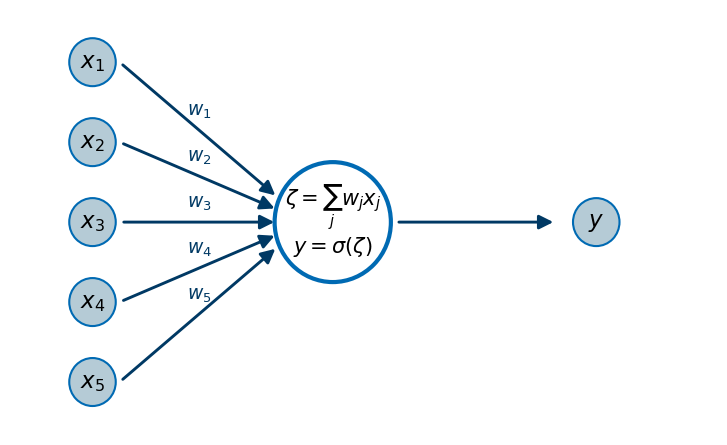
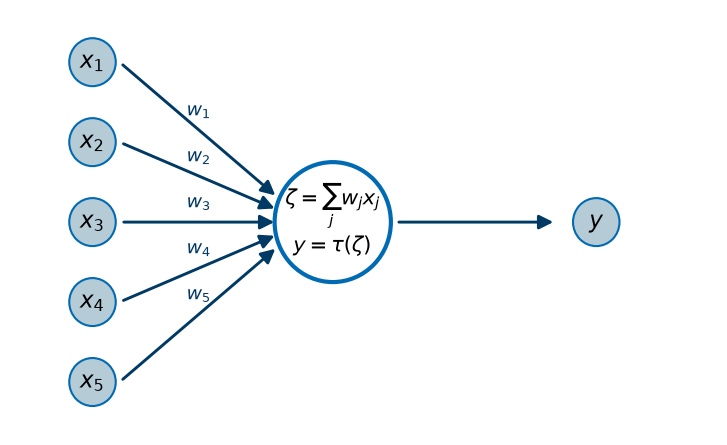
VL 2 gegengelesen: tau statt sigma, XOR aufgelöst, die fünf Antworten
Durchsicht des zweiten Decks nach der Prüfliste des Folien-Playbooks,
Protokoll in devnotes/folien-review-vl02-2026-10-02.md. Der fachliche
Befund: Kapitel 02 legt tau als beliebige Aktivierungsfunktion fest und
sigma als die logistische, zwei Folien und die Neuron-Abbildung sagten
sigma – die Abbildung kommt aus make_figures.py und steht im Kapitel, in
VL 1 und in VL 2. Jetzt überall tau.

Zwei Folien neu: „XOR, aufgelöst“ (das Versprechen von Folie 11, mit dem
Bild, das es für VL 7 schon gab) und „Die fünf Antworten für das Perzeptron“
als Take-Home vor dem Übungsblatt. Dazu das Bias-Update auf der Drei-Fälle-
Folie, eine Zwei-Panel-Abbildung für die Regel bei der Arbeit (der 1x4-
Streifen war unlesbar), die drei Hörsaalfragen von 2025 in den Notizen,
Hugging Face als Ausblick, Iris auf der Blattfolie, Ablaufplan nachgezogen.

Gegenprobe: 22 Folien, 0 zu volle Rahmen, Notizenfassung passt, VL 1 mit der
neuen Abbildung unverändert 25 Folien, Sprachprüfung null, HTML-Bau ohne
Warnungen.

diff --git a/slides/Einführung in Deep Learning 2026 VL 02 Neuron und Perzeptron.tex b/slides/Einführung in Deep Learning 2026 VL 02 Neuron und Perzeptron.tex
@@ -28,9 +28,10 @@
       45--52 & Folie 12      & Die fünf Fragen an jedes Modell\\
       52--62 & Folien 13--14 & Perzeptronregel\\
       62--75 & Folie 15      & \textbf{Tafel: warum sie für ein Sample funktioniert}\\
-      75--82 & Folien 16--17 & Verallgemeinertes Perzeptron\\
-      82--88 & Folien 18--19 & Mehrere Schichten, warum die Regel nicht reicht\\
-      88--90 & Folie 20      & Übungsblatt\\
+      75--82 & Folien 16--17 & Regel bei der Arbeit, verallgemeinertes Perzeptron\\
+      82--87 & Folien 18--20 & MLP, XOR aufgelöst, warum die Regel nicht reicht\\
+      87--89 & Folie 21      & Die fünf Antworten (Take-Home)\\
+      89--90 & Folie 22      & Übungsblatt\\
     \end{tabular}\\[4pt]
     Die Tafelphase ist der Kern der Sitzung -- 2025 war das Ein-Sample-Argument das,
     was der Dozent am Ende „das Wichtigste“ genannt hat. Wenn die Zeit knapp wird:
@@ -48,7 +49,8 @@
 
   \note{Zwei Sätze Rückblick, mehr nicht. Ansagen: das erste Blatt war heute 12:00 fällig,
     das nächste kommt raus und implementiert die Perzeptronregel.
-    Wer letzte Woche nicht da war: Kapitel 1 im Skript, zehn Minuten Lesezeit.}
+    Wer letzte Woche nicht da war: das Kapitel „Was ist Deep Learning?“ im Skript,
+    zehn Minuten Lesezeit.}
 \end{frame}
 
 % ------------------------------------------------------------------ Neuron
@@ -60,7 +62,7 @@
       \begin{center}
         \Large
         $\zeta = \sum_{j=1}^n w_j x_j = w \cdot x$\\[16pt]
-        $y = \sigma(\zeta)$
+        $y = \tau(\zeta)$
       \end{center}
     \end{column}
     \begin{column}{0.48\textwidth}
@@ -70,10 +72,11 @@
 
   \note{Von der Biologie geborgt: Dendriten liefern Signale, das Neuron summiert sie
     gewichtet und feuert, wenn eine Schwelle überschritten wird.
-    Bei McCulloch und Pitts ist $\sigma$ eine Schwellenwertfunktion mit Ausgabe 0 oder 1;
-    später wird daraus Sigmoid oder ReLU.
+    Bei McCulloch und Pitts ist $\tau$ eine Schwellenwertfunktion mit Ausgabe 0 oder 1;
+    später wird daraus die Sigmoidfunktion $\sigma$ oder ReLU. Konvention wie im Skript:
+    $\tau$ ist irgendeine Aktivierungsfunktion, $\sigma$ immer die logistische.
     \textbf{Type-Check als Stilmittel} (hat 2025 gut getragen): Was für ein Objekt ist $w$,
-    was $x$, was $\zeta$? Aus den Typen folgt, dass $\sigma$ von $\mathbb{R}$ nach
+    was $x$, was $\zeta$? Aus den Typen folgt, dass $\tau$ von $\mathbb{R}$ nach
     $\mathbb{R}$ geht.}
 \end{frame}
 
@@ -244,7 +247,10 @@
 
   \note{$\rho > 0$ ist die Lernrate, ein Hyperparameter.
     Type-Check: Was muss $\rho$ sein, damit die Formel Sinn ergibt? Ein Skalar.
-    Und $(y - f(x))$? Eine Zahl aus $\{-1, 0, 1\}$.}
+    Und $(y - f(x))$? Eine Zahl aus $\{-1, 0, 1\}$.
+    Frage 2025: Kann man die rückblickend perfekte Lernrate ausrechnen? Für ein einzelnes
+    Sample ja (bei $y = 1$ reicht $\rho > -\,w \cdot x / \|x\|^2$), für alle zusammen
+    nicht -- in der Praxis wird $\rho$ im Lauf des Trainings variiert.}
 \end{frame}
 
 \begin{frame}
@@ -257,7 +263,14 @@
   \item[$y = 0,\ f(x) = 1$] $w_{\text{neu}} = w - \rho x$, Aktivierung sinkt
   \end{description}
 
-  \note{Der mittlere Fall zum Mitrechnen: $w_{\text{neu}} \cdot x = w \cdot x + \rho\,(x \cdot x)$,
+  \bigskip
+  \begin{center}
+    Mit $x_0 = 1$ lernt die Regel den Bias mit: $b_{\text{neu}} = b + \rho\,(y - f(x))$.
+  \end{center}
+
+  \note{Der Bias ist das nullte Gewicht, also bekommt er dasselbe Update, mit $x_0 = 1$ --
+    Type-Check: $b$ ist eine Zahl, $\rho\,(y - f(x)) \cdot 1$ auch.
+    Der mittlere Fall zum Mitrechnen: $w_{\text{neu}} \cdot x = w \cdot x + \rho\,(x \cdot x)$,
     und $x \cdot x > 0$ für $x \neq 0$. Die Aktivierung wächst also -- in Richtung der
     richtigen Entscheidung.
     Frage in den Raum, die 2025 kam: Muss eine Änderung a priori verbessern? Nein --
@@ -288,11 +301,16 @@
   \frametitle{Die Regel bei der Arbeit}
 
   \begin{center}
-    \includegraphics[width=0.8\textwidth]{vl02-perceptron-updates.png}
+    \includegraphics[width=0.7\textwidth]{vl02-perceptron-updates-folie.png}
   \end{center}
 
-  \note{Trenngerade nach 0, 1, 2 und 3 Epochen über 60 Datenpunkte, Lernrate $\rho = 0{,}05$.
-    Genau das baut das Übungsblatt nach.
+  \note{Links der Start, rechts nach drei Epochen (60 Datenpunkte, Lernrate
+    $\rho = 0{,}05$, Fehlerrate von 60 auf 5 Prozent, und zwar schon nach der ersten Epoche);
+    das Skript zeigt alle vier Stufen. Genau das baut das Übungsblatt nach.
+    Initialisierung (Frage 2025): Der Nullvektor hat keine Richtung, dann entscheidet das
+    erste falsch klassifizierte Sample, wohin $w$ zeigt; $(1,\dots,1)$ ist willkürlich, aber
+    eine Richtung. Wichtig ist die Größenordnung relativ zu den Daten, Normieren schadet
+    nicht. Der Konvergenzsatz rechnet übrigens mit Start $0$.
     Hier den Konvergenzsatz nur beim Namen nennen (Novikoff 1962): höchstens
     $R^2/\gamma^2$ Fehler, wenn es eine Margin $\gamma$ gibt. Der Beweis steht als
     Vertiefung im Skript.}
@@ -333,7 +351,7 @@
     \end{column}
     \begin{column}{0.5\textwidth}
       \Large
-      $h = \sigma(W x + b)$\\[14pt]
+      $h = \tau(W x + b)$\\[14pt]
       \normalsize
       Zeile $i$ von $W$ = Gewichte von Neuron $i$
     \end{column}
@@ -343,9 +361,30 @@
     Also: $m$ Aktivierungen auf einmal -- mit der Geometrie von vorhin: $m$ skalierte
     Abstände zu $m$ Hyperebenen. Jedes Neuron zeichnet eine Gerade in die Eingabeebene.
     In PyTorch: \texttt{nn.Linear(n, m)} hat \texttt{weight} mit Shape \texttt{(m, n)}.
-    Jetzt XOR auflösen: zwei Geraden in der ersten Schicht ($x_1 \lor x_2$ und
-    $\lnot(x_1 \land x_2)$), ein UND darüber -- im Raum der Seiten-Informationen ist XOR
-    linear trennbar.}
+    MLP gegen neuronales Netz (Frage 2025): MLP ist der Spezialfall -- jede Schicht voll
+    mit der nächsten verbunden, nur vorwärts; neuronales Netz ist der Oberbegriff, auch für
+    CNN, RNN und Transformer. Die XOR-Auflösung kommt auf der nächsten Folie.}
+\end{frame}
+
+\begin{frame}
+  \frametitle{XOR, aufgelöst: zwei Geraden und ein UND}
+
+  \begin{center}
+    \includegraphics[width=0.9\textwidth]{vl07-xor-region.png}
+  \end{center}
+
+  \begin{center}
+    $g(x) = [\,x_1 + x_2 - \tfrac12 > 0\,]$ \qquad
+    $f(x) = [\,\tfrac32 - x_1 - x_2 > 0\,]$ \qquad
+    $h = [\,g + f - \tfrac32 > 0\,]$
+  \end{center}
+
+  \note{Das Versprechen von Folie 11 einlösen. Erste Schicht: zwei Perzeptrons, OR und
+    NAND, je eine Gerade in der Eingabeebene. Zweite Schicht: ein UND auf den beiden
+    Seiten-Informationen. Im Raum $(g, f) \in \{0,1\}^2$ liegen die XOR-Punkte bei
+    $(1,1)$, die anderen bei $(0,1)$ und $(1,0)$ -- linear trennbar. Prüfen lassen:
+    $(0,0)$, $(1,1)$ und $(0,1)$ in die drei Formeln einsetzen. Dasselbe Bild kommt in
+    VL 7 wieder, wenn wir Netze von Hand bauen.}
 \end{frame}
 
 \begin{frame}
@@ -368,12 +407,36 @@
 
 % ------------------------------------------------------------------ Abschluss
 \begin{frame}
+  \frametitle{Die fünf Antworten für das Perzeptron}
+
+  \begin{enumerate}\setlength{\itemsep}{5pt}
+  \item Parameter: $w \in \mathbb{R}^n$ und $b \in \mathbb{R}$
+  \item Inferenz: $f(x) = [\, w \cdot x + b > 0 \,]$
+  \item Training: Perzeptronregel, Start z.B. bei $w = (1, \dots, 1)$
+  \item Zielgröße: Fehlerrate auf dem Testset
+  \item Hyperparameter: Lernrate $\rho$; die Dimension $n$ geben die Daten vor
+  \end{enumerate}
+
+  \bigskip
+  \begin{center}
+    Und das Kochrezept: \emph{Skalarprodukt, dann etwas Nichtlineares.}
+  \end{center}
+
+  \note{Zwei Minuten, die Take-Home-Folie: die fünf Fragen von Folie 12, für das
+    Perzeptron beantwortet -- so sieht die Antwort für jedes Modell des Semesters aus.
+    Dazu die drei Sätze aus 2025: Inferenz mit dem Gewichtsvektor; eine Update-Regel, die
+    $w$ bei jedem Fehler ein Stück zu $x$ hin oder von $x$ weg schubst, und einmal im
+    Leben hat man am Winkel nachvollzogen, warum das für ein Sample funktioniert; ohne
+    die Nichtlinearität bringt Stapeln nichts.}
+\end{frame}
+
+\begin{frame}
   \frametitle{Übungsblatt}
 
   \begin{itemize}\setlength{\itemsep}{8pt}
   \item Perzeptronregel selbst implementieren (NumPy, nicht das verallgemeinerte Perzeptron)
-  \item Zweidimensionale Daten wählen und \emph{plotten}
-  \item Mehrere Epochen laufen lassen
+  \item Zweidimensionale Daten wählen und \emph{plotten}: erst \texttt{make\_blobs}, dann Iris
+  \item Mehrere Epochen laufen lassen, Fehler auf Train und Test zählen
   \end{itemize}
 
   \bigskip
@@ -383,8 +446,12 @@
 
   \note{Ausdrücklich ansagen (hat 2025 Rückfragen erspart): mit \texttt{make\_blobs}
     anfangen, das ist der einfachste Fall; plotten, sonst sieht man nichts; mehrere
-    Epochen. Der verlinkte Code ist Ugly Code und nur für den Notfall.
-    Und: ChatGPT liefert hier Lehrbuchzeug, das nicht zur Aufgabe passt.}
+    Epochen; Iris mit zwei Arten als echter Datensatz. Falls das Blatt den Ugly-Code-Link
+    von 2025 noch hat: nur für den Notfall (vorher am TeX-Blatt nachsehen).
+    Und: ChatGPT liefert hier Lehrbuchzeug, das nicht zur Aufgabe passt.
+    Ausblick in einem Satz, wie der Plan es will: Hugging Face ist der Hub, von dem
+    nächste Woche die fertigen Modelle kommen -- Tasks, Modelle, Gewichte zum
+    Herunterladen.}
 \end{frame}
 
 \end{document}

diff --git a/devnotes/make_figures.py b/devnotes/make_figures.py
@@ -149,7 +149,7 @@ def vl01_neuron():
         arrow(ax, (0.85, y), (2.9, 0.15 * (y)), text=f"$w_{i}$")
     ax.add_patch(Circle((3.6, 0), 0.75, fc="white", ec=HHU_BLUE, lw=2))
     ax.text(3.6, 0.2, r"$\zeta=\sum_j w_j x_j$", ha="center", va="center", fontsize=10)
-    ax.text(3.6, -0.3, r"$y=\sigma(\zeta)$", ha="center", va="center", fontsize=10)
+    ax.text(3.6, -0.3, r"$y=\tau(\zeta)$", ha="center", va="center", fontsize=10)  # tau: beliebige Aktivierung, sigma ist im Buch die logistische
     arrow(ax, (4.4, 0), (6.5, 0))
     ax.add_patch(Circle((7.0, 0), 0.3, fc=HHU_ICE, ec=HHU_BLUE))
     ax.text(7.0, 0, "$y$", ha="center", va="center")
@@ -192,6 +192,31 @@ def vl02_perceptron_updates():
         ax.set_xlim(-5, 5)
         ax.set_ylim(-4, 4)
     save(fig, "vl02-perceptron-updates")
+
+
+def vl02_perceptron_updates_folie():
+    """Zwei Stufen statt vier, für die Folie: ein 1x4-Streifen ist auf 16:9 unlesbar (2026-10-02)."""
+    from sklearn.datasets import make_blobs
+
+    X, y = make_blobs(60, centers=[(-2, -1), (2, 1)], cluster_std=1.0, random_state=3)
+    Xb = np.hstack([np.ones((len(X), 1)), X])
+    w = np.array([0.0, -1.0, 1.0])
+    r = 0.05
+    start = w.copy()
+    for epoch in range(3):
+        for xi, yi in zip(Xb, y):
+            f = float(w @ xi > 0)
+            w = w + r * (yi - f) * xi
+    fig, axs = plt.subplots(1, 2, figsize=(7.5, 3.4), sharey=True)
+    xs = np.linspace(-5, 5, 2)
+    for ax, ws, t in zip(axs, [start, w], ["Start $w=(0,-1,1)$", "nach 3 Epochen"]):
+        ax.scatter(X[:, 0], X[:, 1], c=y, cmap="viridis", s=22)
+        ax.plot(xs, -(ws[0] + ws[1] * xs) / ws[2], color=HHU_RED, lw=2)
+        err = np.mean((Xb @ ws > 0) != y)
+        ax.set_title(f"{t}, Fehlerrate {err:.0%}", fontsize=11)
+        ax.set_xlim(-5, 5)
+        ax.set_ylim(-4, 4)
+    save(fig, "vl02-perceptron-updates-folie")
 
 
 # ----------------------------------------------------------------------------

diff --git a/devnotes/folien-review-vl02-2026-10-02.md b/devnotes/folien-review-vl02-2026-10-02.md
@@ -1,0 +1,51 @@
+# Durchsicht des VL-2-Decks (2026-10-02)
+
+Geprüft wurde `slides/Einführung in Deep Learning 2026 VL 02 Neuron und Perzeptron.tex` nach
+der Prüfliste in `~/Sciebo/hhu/PLAYBOOK-folien.md` §3: Bau von Null, Kontaktbogen,
+Notizenfassung, Ablaufplan gegen die Frame-Reihenfolge, Ansagen gegen `kurs-2026-27.md` und das
+Blatt, Fakten gegen die Kapitel 02 und 03, Dialogmuster gegen
+`transcripts/vl02-perzeptron-2025/notiz.md`. Alle Befunde sind am selben Tag umgesetzt.
+
+**Ausgangslage:** 20 Folien, 0 zu volle Rahmen, Notizenfassung vollständig (der Header-Fix
+vom Vormittag), Ablaufplan stimmte (Befund A4 vom 25.09. galt für VL 2 nicht), Termine
+richtig. Nachgerechnet und richtig: Abstandsbeispiel mit $w=(3,4)$, Sigmoid-Werte auf
+Folie 9, die drei Fälle, $w^{(k)}\cdot x$ auf Folie 15, die Linearitätsrechnung auf
+Folie 19, Novikoffs Schranke, die Shape von `nn.Linear`.
+
+## A. Fachlich
+
+| | Befund | Umsetzung |
+|---|---|---|
+| **A1** | **σ gegen τ.** Kapitel 02 legt fest: τ ist die beliebige Aktivierungsfunktion, σ immer die logistische. Folie 3 (`y = σ(ζ)`, Notiz „σ ist eine Schwellenwertfunktion“) und Folie 18 (`h = σ(Wx+b)`) brachen das, Folie 17 hatte τ. Wurzel: `make_figures.py` beschriftete `vl01-neuron.png` mit σ – das Bild steht im Kapitel, in VL 1 (Folie 20) und in VL 2 | Ein Zeichen in `make_figures.py`, Bild neu erzeugt (`images/vl01-neuron.png`), Folien 3 und 18 auf τ, Notiz zu Folie 3 nennt die Konvention |
+| **A2** | **Fünf Fragen, drei Antworten.** Folie 12 fragt; Zielgröße und Hyperparameter standen nur in Notizen, die Initialisierung nirgends (Kapitel 03 hat sie, 2025 wurde danach gefragt) | Neue Folie 21 „Die fünf Antworten für das Perzeptron“ vor dem Übungsblatt, zugleich die Take-Home-Folie; Initialisierung in der Notiz zu Folie 16 |
+| **A3** | **XOR versprochen, nicht eingelöst.** Folie 11 zeigt das Gegenbeispiel, die Auflösung stand nur in der Notiz zu Folie 18 (Playbook §2.8) | Neue Folie 19 „XOR, aufgelöst“ mit `vl07-xor-region.png` (OR, NAND, UND – das Bild gab es schon für VL 7) und den drei Perzeptron-Formeln |
+| **A4** | **Der Bias wird nie explizit gelernt**; 2025 gab es die Update-Zeile mit Type-Check, das Blatt braucht b | Zeile auf Folie 14: $b_{\text{neu}} = b + \rho\,(y-f(x))$ mit $x_0 = 1$, Type-Check in der Notiz |
+| **A5** | Fragen aus 2025 ohne Vorbereitung im Deck: MLP gegen neuronales Netz, Nullvektor als Start, rückblickend perfekte Lernrate | Je ein Absatz in den Notizen zu Folie 18, 16 und 13 |
+
+## B. Form und Kleinkram
+
+| | Befund | Umsetzung |
+|---|---|---|
+| **B1** | Folie 16: vier Panels bei 0.8 der Breite, Fehlerraten in den Paneltiteln unlesbar | Neue Funktion `vl02_perceptron_updates_folie()` in `make_figures.py`: zwei Panels (Start, nach drei Epochen), gleiche Daten und Lernrate; das Buch behält die vier Stufen. Bei 0.9 der Breite lief der Rahmen 21 pt über, 0.7 passt |
+| **B2** | Ablaufplan: Zeile 75–82 nannte für Folie 16 nur das verallgemeinerte Perzeptron | Zeile umbenannt; die zwei neuen Folien eingetragen, Summe bleibt 90 Minuten |
+| **B3** | Folie 20, Notiz: „Der verlinkte Code ist Ugly Code“ setzt einen Link auf dem Blatt voraus, den die 2025er Markdown-Fassung nicht hat; das Blatt nennt Iris, die Folie nicht | Notiz mit Vorbehalt („falls das Blatt den Link noch hat, vorher am TeX-Blatt nachsehen“), Punkte um Iris und „Fehler auf Train und Test zählen“ ergänzt; Prüfpunkt in `TODO.md` |
+| **B4** | `kurs-2026-27.md`: „Hugging Face nur als Ausblick“, im Deck ein halber Satz | Ein Satz in der Notiz zur letzten Folie |
+| **B5** | Folie 2, Notiz: „Kapitel 1 im Skript“ – eine Kapitelnummer | Kapiteltitel |
+
+## Gegenprobe nach dem Umbau
+
+| | vorher | nachher |
+|---|---|---|
+| VL 2 | 20 Folien | 22 Folien (XOR aufgelöst, fünf Antworten) |
+| zu volle Rahmen | 0 | 0 (nach der Breitenkorrektur, siehe B1) |
+| Notizenfassung | kein `\vbox` | kein `\vbox` |
+| VL 1 (neu gebaut, τ-Abbildung) | 25 Folien | 25 Folien |
+| `folienpruefliste.py` | 0 / 0 | 0 / 0 |
+| `myst build --html` (Abbildung im Kapitel) | ohne Warnungen | ohne Warnungen |
+
+## Was daraus ins Playbook ging
+
+Eine Notationsregel im Buch gilt auch für den Abbildungsgenerator: `make_figures.py` trug die
+alte Notation, und das Bild wanderte in Kapitel und zwei Decks. Steht jetzt in
+`~/Sciebo/hhu/PLAYBOOK-folien.md` §2.11. Dazu der Befund, dass §2.8 (Frage auf der Folie,
+Antwort in einem Medium) in einem Deck dreimal zuschlug – die Prüfliste bleibt, wie sie ist.

diff --git a/devnotes/README.md b/devnotes/README.md
@@ -12,7 +12,8 @@ Arbeitsnotizen und Prüfskripte zum Skript, nicht Teil des Buchs. Stand 2026-10-
 | `vorschlag-grundlagen.md` | Zwölf Grundlagen-Snippets und wo sie eingebaut wurden | abgeschlossen, umgesetzt |
 | `codecheck-2026-09-24.md` | Alle 24 Python-Blöcke der Kapitel ausgeführt: was lief, was nicht, mit Umgebung | Referenz (Stand 2026-09-24) |
 | `folien-review-2026-09-25.md` | Durchsicht der 15 Beamer-Decks: Schriftbild, Titel/Labels, Ablaufplan-Nummern, Blatt-Zuordnung, fachliche Unschärfen, fehlende Bilder | A1–A3, Blatt-Verweise, VL-3-Code erledigt (2026-09-25); A5 und alles zu VL 1 erledigt (2026-10-02); Rest offen |
-| `folien-review-vl01-2026-10-02.md` | Durchsicht des VL-1-Decks vor der ersten Sitzung: Umfrage-Fenster, Ablaufplan, Notizseite, Auflösung der Quizfrage, Take-Home, Bilder, Bildnachweis, Header (babel statt `german.sty`, Markenfarbe) — mit Gegenprobe nach dem Umbau | abgeschlossen, alles umgesetzt (2026-10-02); Muster für die übrigen 14 Decks |
+| `folien-review-vl01-2026-10-02.md` | Durchsicht des VL-1-Decks vor der ersten Sitzung: Umfrage-Fenster, Ablaufplan, Notizseite, Auflösung der Quizfrage, Take-Home, Bilder, Bildnachweis, Header (babel statt `german.sty`, Markenfarbe) — mit Gegenprobe nach dem Umbau | abgeschlossen, alles umgesetzt (2026-10-02); Muster für die übrigen Decks |
+| `folien-review-vl02-2026-10-02.md` | Durchsicht des VL-2-Decks nach der Playbook-Prüfliste: σ gegen τ (Wurzel in `make_figures.py`), fünf Fragen ohne Antworten, XOR ohne Auflösung, Bias-Update, Bildbreiten — mit Gegenprobe | abgeschlossen, alles umgesetzt (2026-10-02) |
 | `build-log-2026-09-27.md` | Playbook-Durchgang: Messwerte vorher/nachher, die zwei Konversions-Fehlerklassen, minted zurück, Gegenprobe im Image | Protokoll, abgeschlossen |
 | `patch_myst_tex.py` | Repariert den mystmd-Fehler, der vor jeden Bindestrich in Codeblöcken ein Leerzeichen setzt | **nach jedem `uv sync`** laufen lassen; im CI-Image automatisch |
 | `check_pdf_build.py` | Prüft das gebaute PDF: LaTeX-Fehler, Abbruch, fehlende Glyphen, Seitenzahl, Stichproben | läuft im CI-Job `build-pdf`, lokal vor jedem PDF-Commit |

diff --git a/devnotes/erledigt.md b/devnotes/erledigt.md
@@ -113,6 +113,12 @@ Datierte Protokolle größerer Umbauten liegen daneben als `build-log-<datum>.md
   Markenfarbe `#6f59a6`, `pdfsubject`. Die Umfrage-Ansage war falsch: Das ILIAS-Fenster schließt um 13:55,
   die Notiz sagte „bis morgen“. Gegenprobe: 16 Decks bauen, Seitenzahlen unverändert (VL 1: 23 → 25), 0 zu
   volle Rahmen, Sprachprüfungen null, HTML-Bau ohne Warnungen.
+- [x] **VL 2 gegengelesen und nachgezogen** (2026-10-02, `folien-review-vl02-2026-10-02.md`): σ gegen τ auf
+  zwei Folien und in der Neuron-Abbildung (Wurzel `make_figures.py`, das Bild steht auch im Kapitel und in
+  VL 1), neue Folien „XOR, aufgelöst“ (mit dem VL-7-Bild) und „Die fünf Antworten für das Perzeptron“ als
+  Take-Home, Bias-Update auf der Drei-Fälle-Folie, Zwei-Panel-Abbildung für die Regel bei der Arbeit, die
+  drei Hörsaalfragen von 2025 in den Notizen, Hugging-Face-Ausblick, Iris auf der Blattfolie. Gegenprobe:
+  20 → 22 Folien, 0 zu volle Rahmen, Notizenfassung passt, Sprachprüfung null, HTML-Bau ohne Warnungen.
 - [x] Dozentennotizen sind in den Decks (2026-09-25): je Folie ein `\note{}` mit den Dialogmustern aus
   `transcripts/*/notiz.md`, dazu auf jeder Titelfolie ein Minuten-Ablaufplan aus der jeweiligen Aufzeichnung.
   Drin sind u.a. der Type-Check (VL 2), die offen gehaltene Zufalls-Frage (VL 5), „Quizfrage nicht auflösen“
@@ -184,7 +190,9 @@ Datierte Protokolle größerer Umbauten liegen daneben als `build-log-<datum>.md
 Auslöser: „Sieh die Folien für die erste Sitzung durch.“ Befunde und Umsetzung in
 `folien-review-vl01-2026-10-02.md`; die Liste oben unter „Beamer-Folien“ fasst sie zusammen. Zwei
 Befunde waren keine Folienfrage: die Umfrage-Ansage gegen das ILIAS-Fenster, und der fehlende
-Validation-Split im Kapitel, auf den das Glossar schon verwies.
+Validation-Split im Kapitel, auf den das Glossar schon verwies. Abends VL 2 nach derselben
+Prüfliste (`folien-review-vl02-2026-10-02.md`); der Befund, der über das Deck hinausging, war die
+Notation der Neuron-Abbildung (σ statt τ) aus `make_figures.py`.
 
 ### 2026-09-27, nachts (Playbook-Durchgang)
 

diff --git a/devnotes/TODO.md b/devnotes/TODO.md
@@ -147,11 +147,14 @@ Abgabe bis …“ in den TeX-Blättern.
   Die Notizseite ist seit dem 2026-10-02 im Header geregelt (`note page` plain + `\scriptsize`) und
   gilt für alle Decks.
 - [ ] Decks inhaltlich gegenlesen und im Hörsaal erproben; Folien-PDFs in ILIAS hochladen (die kopierten
-  Dateien dort sind noch die von 2025/26). **VL 1 ist gegengelesen und umgebaut**
-  (`folien-review-vl01-2026-10-02.md`); die übrigen 14 nach demselben Muster: Ablaufplan gegen die
+  Dateien dort sind noch die von 2025/26). **VL 1 und VL 2 sind gegengelesen und umgebaut**
+  (`folien-review-vl01-2026-10-02.md`, `folien-review-vl02-2026-10-02.md`); die übrigen 13 nach
+  demselben Muster (Prüfliste: `~/Sciebo/hhu/PLAYBOOK-folien.md` §3): Ablaufplan gegen die
   Frame-Reihenfolge, Notizenfassung bauen, Termine und Ansagen gegen `kurs-2026-27.md` und die
   ILIAS-Konfiguration (`../../ilias/runs/ws2026-27.yaml`, der Schwesterordner neben dem Repo),
   Kapitelfehler mitsuchen.
+- [ ] **Vor VL 2 am TeX-Blatt nachsehen, ob der Ugly-Code-Link von 2025 noch drin ist.** Die Notiz
+  zur letzten Folie von VL 2 verweist bedingt darauf; die Markdown-Fassung von 2025 hat ihn nicht.
 
 ## ILIAS (Kurs 2026/27, ref_id 2165367)
 
